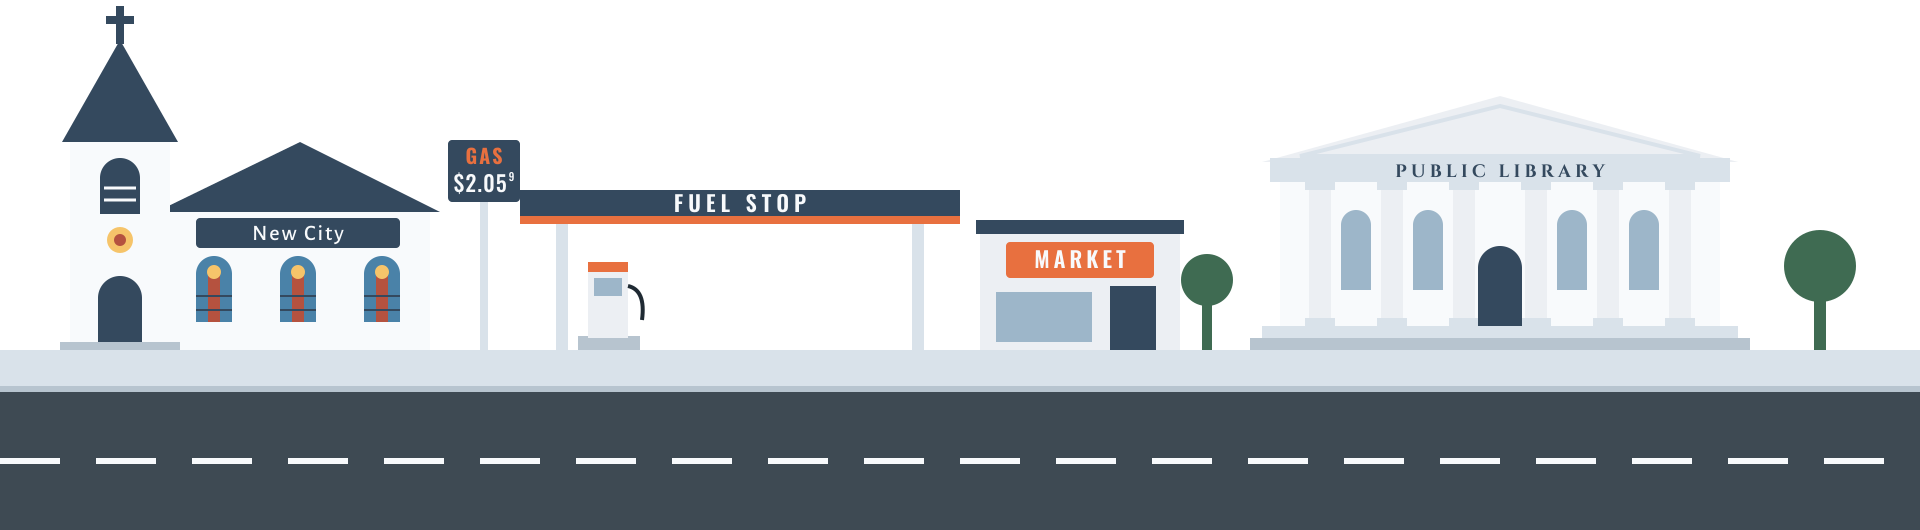
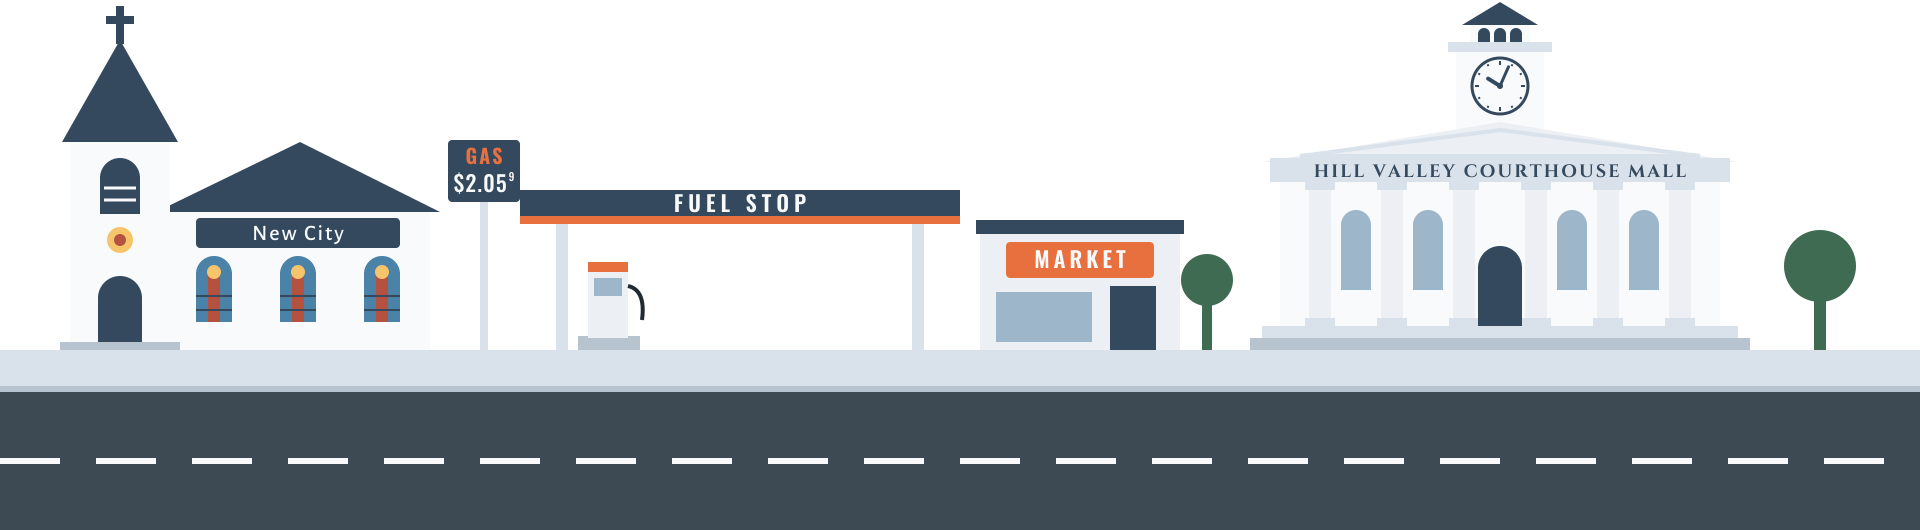
Change the library to the Hill Valley Courthouse Mall
The building from Back to the Future keeps the columns and steps, and
adds a clock tower with the clock stopped at 10:04. The clock face
color is a new clockFace value in each palette, so it is light at
dusk and night.

Claude-Session: https://claude.ai/code/session_01F1XyeJbkdn1kDtDDVeB88k

Changed region(s): [[0.6875, 0.0, 0.875, 0.3321]]

diff --git a/tools/generate_images.py b/tools/generate_images.py
@@ -5,7 +5,7 @@ Run from the repository root:
 
 Requires: pip install cairosvg pillow fonttools
 """
-import cairosvg, random, os
+import cairosvg, math, random, os
 from PIL import Image, ImageOps
 from fontTools.ttLib import TTFont
 from fontTools.pens.svgPathPen import SVGPathPen
@@ -20,15 +20,15 @@ P = {
  "day": dict(sky="#C9DAEA", horizon="#EEF3F8", cloud="#FFFFFF", far="#A9C0D2", mid="#6F93AE", snow="#FFFFFF",
    hillFar="#7FA487", hill="#5E8B6B", tree="#3F6B52", river="#4A82A8", riverHi="#A9C8DD",
    houseA="#F8FAFC", houseB="#ECEFF3", wall2="#D9E2EA", roof="#34495E", window="#9DB6C9",
-   sidewalk="#D9E2EA", curb="#B7C4CF", road="#3E4A53", roadLine="#F8FAFC"),
+   sidewalk="#D9E2EA", curb="#B7C4CF", road="#3E4A53", roadLine="#F8FAFC", clockFace="#F8FAFC"),
  "dusk": dict(sky="#5E6F93", horizon="#F2A27E", cloud="#F3D6CC", far="#7A8BA8", mid="#56708C", snow="#E8D9D3",
    hillFar="#5E7C6C", hill="#4A6A58", tree="#34523F", river="#5C7493", riverHi="#F2B79C",
    houseA="#E3E1E4", houseB="#D4D3DA", wall2="#C3C6D0", roof="#2A3F50", window="#F6C46A",
-   sidewalk="#BFC6CF", curb="#9CA6B1", road="#333E47", roadLine="#E3E1E4"),
+   sidewalk="#BFC6CF", curb="#9CA6B1", road="#333E47", roadLine="#E3E1E4", clockFace="#F6E7B0"),
  "night": dict(sky="#16242F", horizon="#34495E", cloud="#3A4E5E", far="#3A5468", mid="#2E465A", snow="#9FB2C2",
    hillFar="#2F4A3F", hill="#263E34", tree="#1D3229", river="#34495E", riverHi="#6E8BA3",
    houseA="#5B6770", houseB="#4E5A63", wall2="#46525C", roof="#1A2A36", window="#F6C46A",
-   sidewalk="#5B6770", curb="#46525C", road="#20282E", roadLine="#C9D2DA"),
+   sidewalk="#5B6770", curb="#46525C", road="#20282E", roadLine="#C9D2DA", clockFace="#F6C46A"),
 }
 
 # Store sign fonts. Most are variable fonts (one file covers a range of weights).
@@ -211,13 +211,32 @@ def town_b(p):
           f'<rect x="980" y="770" width="200" height="130" fill="{B}"/><rect x="976" y="770" width="208" height="14" fill="{R}"/>'
           + sign(1006, 792, 148, 36, ACCENT, "MARKET", "oswald", 600, 22, 818, 4) +
           f'<rect x="996" y="842" width="96" height="50" fill="{Wn}"/><rect x="1110" y="836" width="46" height="64" fill="{R}"/>')
-    # Library: stone front with columns, steps, and a carved name
-    s += (f'<rect x="1250" y="888" width="500" height="12" fill="{p["curb"]}"/><rect x="1262" y="876" width="476" height="12" fill="{W2}"/>'
+    # Hill Valley Courthouse Mall from Back to the Future: stone front with
+    # columns and steps, and a clock tower stopped at 10:04
+    cx, cy, cr = 1500, 636, 28
+    clock = f'<circle cx="{cx}" cy="{cy}" r="{cr}" fill="{p["clockFace"]}" stroke="{R}" stroke-width="3"/>'
+    for i in range(12):
+        a = math.radians(i * 30)
+        r1 = cr - (7 if i % 3 == 0 else 5)
+        clock += (f'<line x1="{cx + r1 * math.sin(a):.1f}" y1="{cy - r1 * math.cos(a):.1f}" '
+                  f'x2="{cx + (cr - 3) * math.sin(a):.1f}" y2="{cy - (cr - 3) * math.cos(a):.1f}" stroke="{R}" stroke-width="2"/>')
+    for deg, length, width in (((10 + 4 / 60) * 30, 14, 4), (4 * 6, 21, 3)):
+        a = math.radians(deg)
+        clock += (f'<line x1="{cx}" y1="{cy}" x2="{cx + length * math.sin(a):.1f}" y2="{cy - length * math.cos(a):.1f}" '
+                  f'stroke="{R}" stroke-width="{width}" stroke-linecap="round"/>')
+    clock += f'<circle cx="{cx}" cy="{cy}" r="3" fill="{R}"/>'
+    s += (f'<rect x="1456" y="600" width="88" height="112" fill="{A}"/>'
+          f'<rect x="1448" y="592" width="104" height="10" fill="{W2}"/>'
+          f'<rect x="1470" y="574" width="60" height="18" fill="{A}"/>'
+          + arch(1478, 578, 12, 14, R) + arch(1494, 578, 12, 14, R) + arch(1510, 578, 12, 14, R) +
+          f'<polygon points="1462,575 1500,552 1538,575" fill="{R}"/>'
+          + clock +
+          f'<rect x="1250" y="888" width="500" height="12" fill="{p["curb"]}"/><rect x="1262" y="876" width="476" height="12" fill="{W2}"/>'
           f'<rect x="1280" y="730" width="440" height="146" fill="{A}"/>'
-          f'<polygon points="1262,712 1500,646 1738,712" fill="{B}"/>'
-          f'<polygon points="1300,706 1500,656 1700,706" fill="none" stroke="{W2}" stroke-width="4"/>'
+          f'<polygon points="1262,712 1500,672 1738,712" fill="{B}"/>'
+          f'<polygon points="1300,706 1500,680 1700,706" fill="none" stroke="{W2}" stroke-width="4"/>'
           f'<rect x="1270" y="708" width="460" height="24" fill="{W2}"/>'
-          + text("PUBLIC LIBRARY", "cinzel", 700, 18, 1500, 727, R, 4))
+          + text("HILL VALLEY COURTHOUSE MALL", "cinzel", 700, 18, 1500, 727, R, 2))
     for cx in (1320, 1392, 1464, 1536, 1608, 1680):
         s += (f'<rect x="{cx-11}" y="740" width="22" height="136" fill="{B}"/>'
               f'<rect x="{cx-15}" y="732" width="30" height="8" fill="{W2}"/><rect x="{cx-15}" y="868" width="30" height="8" fill="{W2}"/>')

diff --git a/AGENTS.md b/AGENTS.md
@@ -33,7 +33,7 @@ These apply to code, comments, commit messages, README.md, and this file.
 - Layers must overlap with no gaps. A lower layer must reach below the top edge of the layer in front of it at every x position, or the sky shows through.
 - The top of the river must start below the top edge of the hills, or it sticks up into the mountains.
 - The sky is an 8 pixel wide gradient stretched to 1920 pixels. Keep it narrow.
-- The town crop starts at y=550 so the church cross fits. If anything in the town is drawn above y=550, it is cut off.
+- The town crop starts at y=550 so the church cross and the courthouse clock tower fit. If anything in the town is drawn above y=550, it is cut off.
 - Store sign text is drawn with `text()` in the generator, which converts letters to shapes using the fonts in `tools/fonts`. It works with variable fonts and with fonts that have one weight. Do not use SVG `<text>` elements, because they depend on the fonts installed on the computer that runs the generator. To add a font, put the `.ttf` file and its license in `tools/fonts` and add it to `FONTS`. Only use fonts with a license that allows this, such as the SIL Open Font License. Write non-ASCII letters as Python escapes (for example, `"Luke\u2019s"`).
 - The car parked at the gas station is not part of the town image. `parkCar()` in `components/MainScene.brs` adds it to `townStrip` when the screensaver starts. If the gas station moves in the generator, update the position in `parkCar()` and in `park_preview()` in the generator.
 - Car images do not include the wheels. Wheels are a separate image so they can spin. If a car's size or wheel positions change in the generator, update the matching entry in `m.carDefs` in `components/MainScene.brs` (`w`, `h`, `wheels`, `r`, and `bottom`).

diff --git a/README.md b/README.md
@@ -5,7 +5,7 @@ A Roku screensaver inspired by Roku City. It shows a small town beside a river w
 ## Features
 
 - Five scenery layers that scroll at different speeds: clouds, far mountains, near mountains, hills with the river, and the town with the street.
-- The town has two sections. The first has three houses (numbered 5401, 135, and 5334), a donut shop called Long's Donuts, a book store called Forever Books, Williams Hardware, and a diner called Luke's. The last two are references to Gilmore Girls. The second has a church named New City, a gas station with a small market, and a public library.
+- The town has two sections. The first has three houses (numbered 5401, 135, and 5334), a donut shop called Long's Donuts, a book store called Forever Books, Williams Hardware, and a diner called Luke's. The last two are references to Gilmore Girls. The second has a church named New City, a gas station with a small market, and the Hill Valley Courthouse Mall from Back to the Future, with its clock stopped at 10:04.
 - A car is parked at the gas station. The car and the direction it faces are chosen at random each time the screensaver starts.
 - Each store sign uses its own font.
 - Four cars: a sedan, a van, a Jeep, and an old truck. Each has its own speed, and the wheels spin at a rate that matches it.
@@ -82,7 +82,7 @@ Store sign fonts:
 | Kaushan Script | Luke's |
 | Playfair Display | Forever Books |
 | Oswald | Williams Hardware, gas station, Market |
-| Cinzel | Public Library |
+| Cinzel | Hill Valley Courthouse Mall |
 | Alegreya Sans | New City church |
 | Signika (Medium) | House number 5401 |
 | Hanken Grotesk (Light) | House number 135 |
